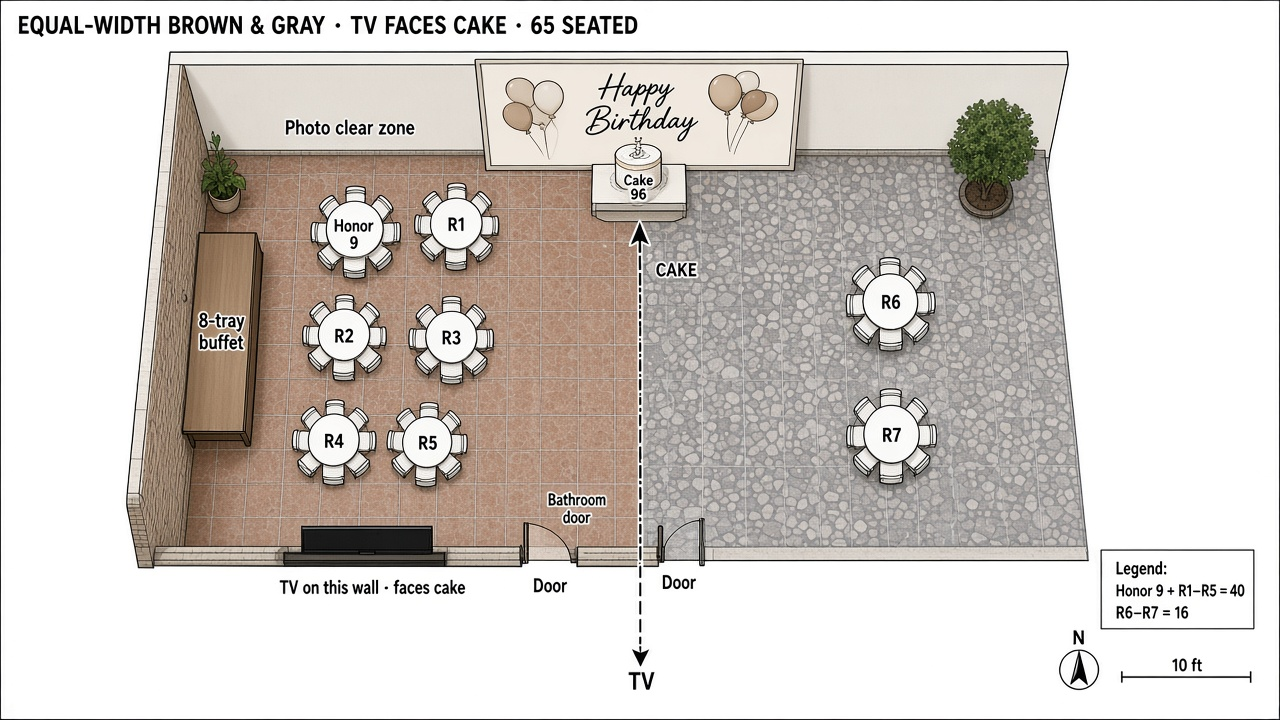
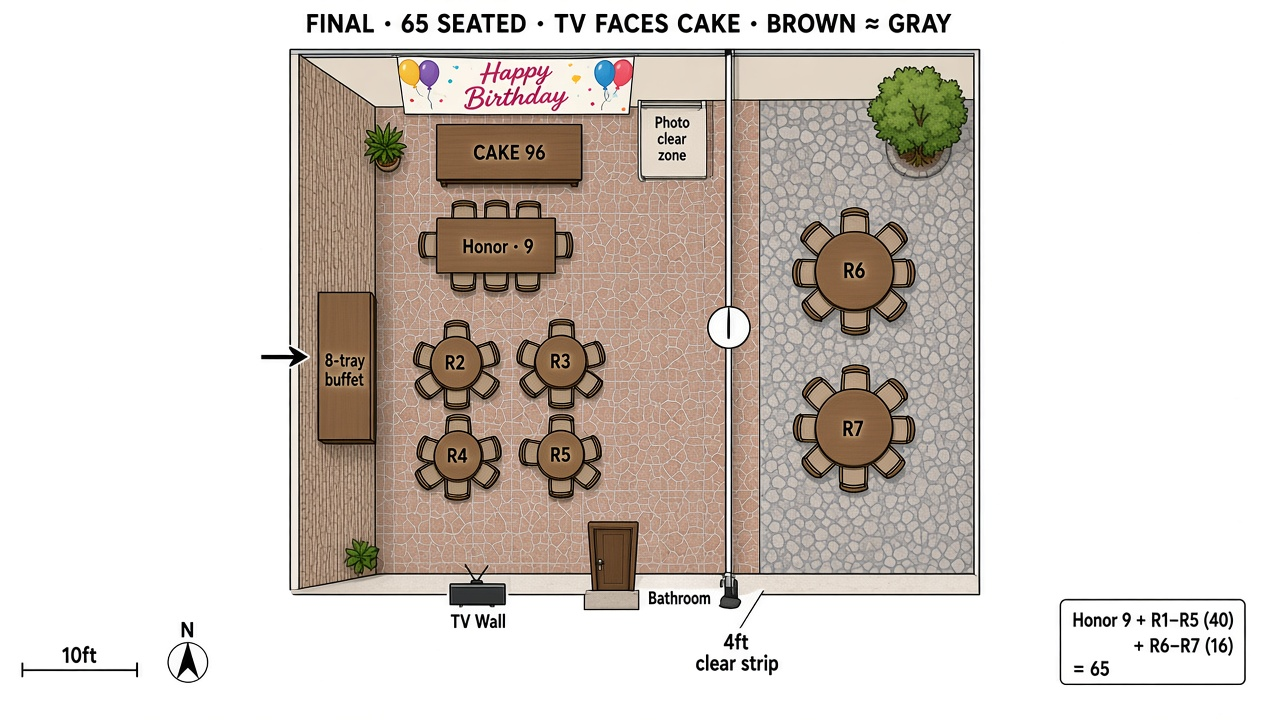
Finalize grandma’s 96th patio party package
Ship the corrected floor plan and realistic render, add a setup
checklist for rentals and day-of flow, and document the complete
65-guest layout with TV facing cake and equal brown/gray bands.

diff --git a/birthday-party-plan/index.html b/birthday-party-plan/index.html
@@ -3,7 +3,7 @@
 <head>
   <meta charset="UTF-8" />
   <meta name="viewport" content="width=device-width, initial-scale=1" />
-  <title>96th Birthday — Equal-width patio · TV faces cake</title>
+  <title>Grandma’s 96th — Final Patio Plan (65 Guests)</title>
   <link rel="preconnect" href="https://fonts.googleapis.com" />
   <link rel="preconnect" href="https://fonts.gstatic.com" crossorigin />
   <link href="https://fonts.googleapis.com/css2?family=Cormorant+Garamond:ital,wght@0,500;0,600;1,500&family=Outfit:wght@300;400;500;600&display=swap" rel="stylesheet" />
@@ -17,97 +17,114 @@
     body {
       font-family: "Outfit", system-ui, sans-serif; color: var(--ink);
       background:
-        radial-gradient(ellipse 80% 50% at 10% 0%, rgba(125,143,106,0.16), transparent 55%),
-        linear-gradient(180deg, #efe8dc, var(--cream) 45%, #e7dfd2);
+        radial-gradient(ellipse 70% 45% at 8% 0%, rgba(125,143,106,0.16), transparent 55%),
+        linear-gradient(180deg, #efe8dc, var(--cream) 40%, #e7dfd2);
       min-height: 100vh; line-height: 1.45;
     }
-    header, main, footer { max-width: 1100px; margin: 0 auto; padding-left: 1.5rem; padding-right: 1.5rem; }
+    header, main, footer { max-width: 1080px; margin: 0 auto; padding-left: 1.4rem; padding-right: 1.4rem; }
     header { padding-top: 2.4rem; padding-bottom: 1rem; }
-    .eyebrow { font-size: 0.72rem; letter-spacing: 0.16em; text-transform: uppercase; color: var(--sage-deep); font-weight: 500; margin-bottom: 0.45rem; }
-    h1 { font-family: "Cormorant Garamond", Georgia, serif; font-weight: 600; font-size: clamp(1.9rem, 3.8vw, 2.7rem); }
+    .eyebrow { font-size: 0.72rem; letter-spacing: 0.16em; text-transform: uppercase; color: var(--sage-deep); font-weight: 500; margin-bottom: 0.4rem; }
+    h1 { font-family: "Cormorant Garamond", Georgia, serif; font-weight: 600; font-size: clamp(1.9rem, 3.6vw, 2.6rem); }
     h1 em { font-style: italic; color: var(--sage-deep); font-weight: 500; }
-    .lede { max-width: 46rem; margin-top: 0.7rem; color: var(--muted); font-weight: 300; font-size: 1.02rem; }
-    .meta { display: flex; flex-wrap: wrap; gap: 0.5rem; margin-top: 1.1rem; }
-    .chip { border: 1px solid var(--line); background: rgba(255,250,243,0.75); padding: 0.32rem 0.65rem; font-size: 0.76rem; }
+    .lede { max-width: 44rem; margin-top: 0.65rem; color: var(--muted); font-weight: 300; font-size: 1.02rem; }
+    .meta { display: flex; flex-wrap: wrap; gap: 0.45rem; margin-top: 1rem; }
+    .chip { border: 1px solid var(--line); background: rgba(255,250,243,0.8); padding: 0.3rem 0.65rem; font-size: 0.75rem; }
     .chip strong { color: var(--sage-deep); }
-    main { padding: 1rem 1.5rem 3rem; display: grid; gap: 1.25rem; }
-    .plan-card { background: var(--ivory); border: 1px solid var(--line); box-shadow: 0 16px 36px rgba(44,42,38,0.06); overflow: hidden; }
+    main { padding: 0.75rem 1.4rem 2.75rem; display: grid; gap: 1.15rem; }
+    .plan-card { background: var(--ivory); border: 1px solid var(--line); box-shadow: 0 14px 32px rgba(44,42,38,0.06); overflow: hidden; }
     .plan-card img { width: 100%; display: block; }
-    .caption { padding: 0.8rem 1rem; font-size: 0.84rem; color: var(--muted); border-top: 1px solid var(--line); }
-    .grid-2 { display: grid; grid-template-columns: 1fr 1fr; gap: 1.15rem; }
-    @media (max-width: 800px) { .grid-2 { grid-template-columns: 1fr; } }
-    section.panel { background: rgba(255,250,243,0.75); border: 1px solid var(--line); padding: 1.2rem 1.3rem; }
-    section.panel h2 { font-family: "Cormorant Garamond", Georgia, serif; font-size: 1.4rem; margin-bottom: 0.5rem; }
-    section.panel p, section.panel li { color: var(--muted); font-size: 0.92rem; }
-    section.panel ul { list-style: none; display: grid; gap: 0.45rem; margin-top: 0.7rem; }
-    section.panel li::before { content: ""; display: inline-block; width: 0.4rem; height: 0.4rem; background: var(--blush); margin-right: 0.5rem; vertical-align: middle; }
-    .note { border-left: 3px solid var(--blush); padding-left: 0.8rem; margin-top: 0.85rem; font-size: 0.88rem; color: var(--muted); }
-    footer { padding-bottom: 3rem; color: var(--muted); font-size: 0.8rem; }
+    .caption { padding: 0.75rem 1rem; font-size: 0.82rem; color: var(--muted); border-top: 1px solid var(--line); }
+    .grid-2 { display: grid; grid-template-columns: 1fr 1fr; gap: 1.1rem; }
+    .grid-3 { display: grid; grid-template-columns: repeat(3, 1fr); gap: 0.85rem; }
+    @media (max-width: 800px) { .grid-2, .grid-3 { grid-template-columns: 1fr; } }
+    section.panel { background: rgba(255,250,243,0.78); border: 1px solid var(--line); padding: 1.15rem 1.25rem; }
+    section.panel h2 { font-family: "Cormorant Garamond", Georgia, serif; font-size: 1.35rem; margin-bottom: 0.45rem; }
+    section.panel p, section.panel li { color: var(--muted); font-size: 0.9rem; }
+    section.panel ul { list-style: none; display: grid; gap: 0.4rem; margin-top: 0.65rem; }
+    section.panel li::before { content: ""; display: inline-block; width: 0.35rem; height: 0.35rem; background: var(--blush); margin-right: 0.45rem; vertical-align: middle; }
+    .stat { border-top: 2px solid var(--sage); padding-top: 0.4rem; }
+    .stat .n { font-family: "Cormorant Garamond", Georgia, serif; font-size: 1.75rem; color: var(--sage-deep); line-height: 1; }
+    .stat .l { font-size: 0.72rem; color: var(--muted); margin-top: 0.15rem; }
+    a.btn { display: inline-block; margin-top: 0.75rem; color: var(--sage-deep); font-size: 0.88rem; font-weight: 500; }
+    footer { padding-bottom: 2.75rem; color: var(--muted); font-size: 0.78rem; }
   </style>
 </head>
 <body>
   <header>
-    <p class="eyebrow">Corrected orientation · equal-width bands · realistic render</p>
-    <h1>TV wall faces the <em>cake wall</em></h1>
+    <p class="eyebrow">Complete package · Boho Spring Garden · 65 guests</p>
+    <h1>Grandma’s <em>96th</em> — final patio plan</h1>
     <p class="lede">
-      Camera sits on the <strong>TV wall</strong> looking toward the cake. The TV is on that wall and
-      <strong>faces the cake area</strong> — not the far wall. Brown and gray bands are
-      <strong>about the same width</strong>.
+      Floor plan, realistic render, and setup checklist. TV wall faces the cake wall on a straight brown-tile run;
+      gray band is about the same width outside the roof; bathroom stays clear beside the TV.
     </p>
     <div class="meta">
-      <span class="chip"><strong>TV</strong> on camera wall · faces cake</span>
-      <span class="chip"><strong>Brown ≈ gray</strong> width</span>
-      <span class="chip"><strong>65</strong> seated · 8-tray buffet</span>
-      <span class="chip"><strong>Bath</strong> beside TV · 4′ clear</span>
+      <span class="chip"><strong>65</strong> seated</span>
+      <span class="chip"><strong>8-tray</strong> buffet</span>
+      <span class="chip"><strong>TV</strong> faces cake</span>
+      <span class="chip"><strong>Brown ≈ gray</strong></span>
     </div>
   </header>
 
   <main>
+    <div class="plan-card">
+      <img src="./assets/patio-floor-plan-65.png" alt="Final floor plan for 65 guests" />
+      <p class="caption">Final floor plan — Honor 9 + R1–R5 (40) + R6–R7 (16) = 65. Put a 9th chair at the honor table.</p>
+    </div>
+
+    <div class="plan-card">
+      <img src="./assets/patio-party-spatial-render.png" alt="Final realistic render from TV wall toward cake" />
+      <p class="caption">Realistic render from the TV/camera wall looking toward the cake wall (same angle as your Wyze photo).</p>
+    </div>
+
     <div class="grid-2">
       <div class="plan-card">
-        <img src="./assets/wyze-from-tv-wall.jpg" alt="Wyze camera on TV wall looking toward cake wall" />
-        <p class="caption">Real view from the TV/camera wall toward the cake wall — brown left, gray right, ≈ equal width.</p>
+        <img src="./assets/wyze-from-tv-wall.jpg" alt="Wyze reference toward cake wall" />
+        <p class="caption">Reference: Wyze on TV wall → cake wall.</p>
       </div>
       <div class="plan-card">
-        <img src="./assets/tv-wall-facing.jpg" alt="TV wall with bathroom door beside TV" />
-        <p class="caption">TV wall itself — TV faces the cake; bathroom is the paneled door beside the TV.</p>
+        <img src="./assets/tv-wall-facing.jpg" alt="TV wall with bathroom door" />
+        <p class="caption">Reference: TV + bathroom door on the near wall.</p>
       </div>
     </div>
 
-    <div class="plan-card">
-      <img src="./assets/patio-floor-plan-65.png" alt="Floor plan with equal brown and gray widths, TV facing cake" />
-      <p class="caption">Floor plan — equal-width brown/gray bands; TV at bottom facing cake at top; bath clear; 8-tray buffet; 65 seats.</p>
-    </div>
-
-    <div class="plan-card">
-      <img src="./assets/patio-party-spatial-render.png" alt="Realistic party render from TV wall looking toward cake" />
-      <p class="caption">Realistic render from the same vantage as the Wyze photo — cake/décor on the far wall; TV stays on the camera-end wall (behind the view).</p>
+    <div class="grid-3">
+      <div class="stat panel" style="border:1px solid var(--line);padding:1rem;">
+        <div class="n">9</div><div class="l">Honor (cake end)</div>
+      </div>
+      <div class="stat panel" style="border:1px solid var(--line);padding:1rem;">
+        <div class="n">40</div><div class="l">R1–R5 on brown</div>
+      </div>
+      <div class="stat panel" style="border:1px solid var(--line);padding:1rem;">
+        <div class="n">16</div><div class="l">R6–R7 on gray</div>
+      </div>
     </div>
 
     <div class="grid-2">
       <section class="panel">
-        <h2>What changed</h2>
+        <h2>Place in order</h2>
         <ul>
-          <li>TV is on the <strong>camera/TV wall</strong>, facing the cake — not on the far wall</li>
-          <li>Brown and gray are <strong>≈ equal width</strong> side by side</li>
-          <li>Render matches the real Wyze angle and materials</li>
+          <li>Cake wall décor (backdrop, arch, cake)</li>
+          <li>Keep 4′ clear at TV / bathroom</li>
+          <li>8-tray buffet on brick wall</li>
+          <li>Honor 9, then R1–R5 on brown</li>
+          <li>R6–R7 on gray by the tree</li>
         </ul>
-        <p class="note">Bathroom door stays beside the TV with a 4′ clear strip — no tables in that zone.</p>
+        <a class="btn" href="./SETUP.md">Open full setup checklist →</a>
       </section>
       <section class="panel">
-        <h2>65 seats + buffet</h2>
+        <h2>Don’t block</h2>
         <ul>
-          <li><strong>Honor 9</strong> near cake (offset for photos)</li>
-          <li><strong>R1–R5 = 40</strong> on brown under the roof</li>
-          <li><strong>R6–R7 = 16</strong> on gray by the tree</li>
-          <li><strong>8-tray buffet</strong> on the stone/brick wall, one-way toward cake</li>
+          <li>Bathroom door beside the TV</li>
+          <li>Photo stand space at the cake</li>
+          <li>Center aisle cake ↔ TV</li>
+          <li>Path past the roof pole to gray</li>
         </ul>
       </section>
     </div>
   </main>
 
   <footer>
-    Geometry locked to your TV-wall and Wyze photos. Confirm tray length and aisle widths on site.
+    Theme: Boho Spring Garden (sage · dusty pink · cream). Open SETUP.md for rentals and day-of flow.
   </footer>
 </body>
 </html>

diff --git a/birthday-party-plan/README.md b/birthday-party-plan/README.md
@@ -1,48 +1,48 @@
-# Grandma’s 96th — Corrected layout (65 seated)
+# Grandma’s 96th Birthday — Patio Plan (Complete)
 
-## Orientation (locked to your photos)
+Boho Spring Garden party for **65 guests** on the covered patio + gray outdoor band.
 
-The **Wyze camera sits on the TV wall**, looking toward the **cake wall**.
+## Orientation (from your photos)
 
 | | |
 |--|--|
-| **TV wall** (camera end) | TV mounted here, **screen faces the cake**. Bathroom door beside the TV. Keep **4′ clear**. |
-| **Cake wall** (opposite) | Backdrop + cake. Fridge/chairs removed. Same brown tiles under the roof. |
-| **Brown band** | Under the roof, along the stone/brick wall — **≈ same width as gray** |
-| **Gray band** | Outside the roof, other side of the pole — **≈ same width as brown** |
-
-Brown runs in a straight line from TV wall → cake wall. Gray runs beside it, not under the roof.
+| **TV wall** (Wyze camera end) | TV mounted here, **faces the cake**. Bathroom door beside TV — keep **4′ clear**. |
+| **Cake wall** (opposite) | Backdrop + balloons + cake. Remove fridge & stacked chairs. |
+| **Brown band** | Under the roof, along brick/stone wall — **≈ same width as gray** |
+| **Gray band** | Outside the roof, past the pole — **≈ same width as brown** |
 
 ```
-        CAKE WALL (backdrop + cake)
-   ┌─────────────┬─────────────┐
-   │   BROWN     │    GRAY     │
-   │  under roof │  outside    │
-   │  ≈ equal    │  ≈ equal    │
-   │  width      │  width      │
-   │  buffet +   │  tree +     │
-   │  R1–R5      │  R6–R7      │
-   └─────────────┴─────────────┘
-        TV WALL (TV faces cake · bath beside TV)
+              CAKE WALL
+     ┌──────────────┬──────────────┐
+     │ BROWN        │ GRAY         │
+     │ under roof   │ outside      │
+     │ ≈ equal width│ ≈ equal width│
+     │ buffet+seats │ tree+seats   │
+     └──────────────┴──────────────┘
+              TV WALL
+         (TV faces cake · bath beside TV)
 ```
 
-## Seating (65)
+## Final seating (65)
 
-| Zone | Seats |
-|------|------:|
-| Honor near cake (offset) | 9 |
-| R1–R5 on brown | 40 |
-| R6–R7 on gray by tree | 16 |
-| **Total** | **65** |
+| Zone | What | Seats |
+|------|------|------:|
+| Honor | Near cake, offset for photos (use 9 chairs) | 9 |
+| R1–R5 | Rounds on brown under roof | 40 |
+| R6–R7 | Rounds on gray by the tree | 16 |
+| **Total** | | **65** |
 
-## Buffet
+## Buffet (8 trays)
 
-8 trays on the stone/brick wall (brown side), one-way: plates nearer TV end → trays toward cake → seats. Not in the bathroom clear zone.
+Long tables on the **brick/stone wall**, one-way: plates nearer the TV end → trays 1–8 toward the cake → guests return to seats. Do not block the bathroom clear strip.
 
 ## Files
 
-- [Floor plan](./assets/patio-floor-plan-65.png)
-- [Realistic render from TV/camera wall](./assets/patio-party-spatial-render.png)
-- [Wyze view toward cake](./assets/wyze-from-tv-wall.jpg)
-- [TV wall photo](./assets/tv-wall-facing.jpg)
-- [Interactive plan](./index.html)
+| File | Purpose |
+|------|---------|
+| [patio-floor-plan-65.png](./assets/patio-floor-plan-65.png) | Final labeled floor plan |
+| [patio-party-spatial-render.png](./assets/patio-party-spatial-render.png) | Realistic view from TV wall toward cake |
+| [SETUP.md](./SETUP.md) | Clear / rent / place checklist |
+| [index.html](./index.html) | Open in a browser for the full package |
+| [wyze-from-tv-wall.jpg](./assets/wyze-from-tv-wall.jpg) | Real camera reference |
+| [tv-wall-facing.jpg](./assets/tv-wall-facing.jpg) | TV + bathroom door reference |

diff --git a/birthday-party-plan/SETUP.md b/birthday-party-plan/SETUP.md
@@ -1,0 +1,36 @@
+# Setup checklist — Grandma’s 96th (65 guests)
+
+## Clear before setup
+- [ ] Move fridge and stacked white chairs off the **cake wall**
+- [ ] Clear sofas/coffee table from brown floor
+- [ ] Keep **bathroom door** (beside TV) fully usable
+
+## Rent / buy
+| Item | Qty | Notes |
+|------|-----|--------|
+| Round tables (60″) | 7 | R1–R7 |
+| Banquet/rect table (honor) | 1 | Seats 9 near cake |
+| Chairs | 65 | + a few spares |
+| Buffet tables | 2×6′ or 1×8′+ | ~16′ total for **8 trays** |
+| Cake table | 1×4–6′ | In front of backdrop |
+| Linens | Matching wildflower/cream | Tables + buffet + cake |
+| Backdrop + balloon arch | 1 kit | Boho Spring Garden (sage / blush / cream) |
+| String lights | As needed | Under roof + overhead wires |
+
+## Place in this order
+1. **Cake wall** — backdrop, arch, cake table (photo floor clear)
+2. **TV wall** — leave **4′ clear** across; no chairs in bathroom swing
+3. **Buffet** — stone/brick wall; plates near TV end → 8 trays toward cake
+4. **Honor (9)** — near cake, offset so photos stay open
+5. **R1–R5** — brown under roof, two columns + center aisle
+6. **R6–R7** — gray outside, around the tree (past the pole)
+
+## Day-of flow
+- Guests enter → seats on brown or gray  
+- Food: one-way buffet (don’t block bathroom)  
+- Photos: cake wall, aisle kept open  
+- Bathroom: always clear at TV wall  
+
+## Seat math
+**Honor 9 + R1–R5 (40) + R6–R7 (16) = 65**  
+(If the honor table is drawn with 8 chairs, add a 9th chair there.)

diff --git a/README.md b/README.md
@@ -5,6 +5,7 @@ A tiny playground repo for practicing the GitHub PR workflow: branch, commit, pu
 ## What's here
 
 - `greet.py` — a small greeting utility with a couple of unit tests.
+- `birthday-party-plan/` — **Grandma’s 96th patio layout** (65 seats, floor plan, render, setup checklist). Open [`birthday-party-plan/index.html`](./birthday-party-plan/index.html).
 
 ## Usage
 
